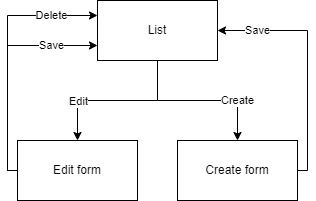
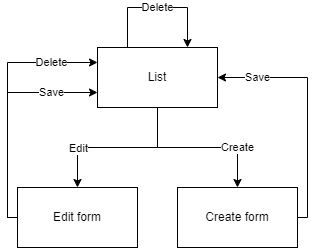
GitBook: [#7] No subject

diff --git a/crud-view/view-flow/error-flow.md b/crud-view/view-flow/error-flow.md
@@ -1,0 +1,8 @@
+# Error flow
+
+![](../../.gitbook/assets/crud\_flow\_error.drawio.png)
+
+| Error        | Description                                                                                             |
+| ------------ | ------------------------------------------------------------------------------------------------------- |
+| Invalid data | Data not matching patterns or validators. Can be fixed by the user.                                     |
+| Missing data | Data doesn't exist in application. Usually this means editing or deleting an entry which doesn't exist. |

diff --git a/crud-view/view-flow/README.md b/crud-view/view-flow/README.md
@@ -1,0 +1,17 @@
+# View flow
+
+Listing and editing entries. Doesn't cover error handling.
+
+![](<../../.gitbook/assets/crud\_flow.drawio (1).png>)
+
+## List
+
+Shows all the entries. Has buttons for creating, editing and deleting each entry.
+
+## Create
+
+Allows the creating of a new entry.
+
+## Edit
+
+Updates an existing entry.

diff --git a/SUMMARY.md b/SUMMARY.md
@@ -8,4 +8,5 @@
 
 ## CRUD view
 
-* [View flow](crud-view/view-flow.md)
+* [View flow](crud-view/view-flow/README.md)
+  * [Error flow](crud-view/view-flow/error-flow.md)
